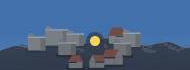
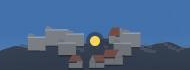
Fade the sun-side light with sin of the sun's offset from the cluster
Replaces the backlit band with a continuous light share k = min(1, sin d /
sin 30 deg) carried as --sun-k: lit faces, roof light, cast shadows and the
sun strip ease to the wall tone as the sun crosses behind the houses, the side
swaps where k is about 0, and the other face brightens.

diff --git a/src/ui/scene/marks/LightRig.tsx b/src/ui/scene/marks/LightRig.tsx
@@ -1,22 +1,29 @@
-import type { ReactNode } from 'react'
+import type { CSSProperties, ReactNode } from 'react'
 import type { BuildingProps, BuildingSpec } from './generic/buildingSpecs'
 import styles from './marks.module.css'
 
 export type LightSide = 'w' | 'e' | 'top'
 
-/**
- * Sun within this many px of a body's own x (10° of the 250° panorama at 375 px): we look at it against the light, so
- * its side faces take sin 10° × cos(altitude) < 0.17 of the beam, no more than skylight. Inside this spell it is drawn
- * backlit (both faces flat) and its lit side swaps there, instead of every house mirroring in one frame as the sun
- * crosses the cluster.
- */
-export const BACKLIT_PX = 15
+/** Panorama scale: 250° of bearing across 375 px. */
+const PX_PER_DEG = 1.5
+/** A side face takes its full drawn light from this angle between the sun and the body's bearing. */
+const FULL_LIGHT_DEG = 30
 
-/** Which side face takes the sun: west or east of the body, or null when backlit or no sun. */
-export function sunSideOf(sunX: number | null, x: number): 'w' | 'e' | null {
+/**
+ * Which side face takes the sun, and how much of its drawn light (`k`, 0–1, the CSS `--sun-k`). A side wall square to
+ * the line of sight gets the beam in proportion to sin δ, δ the sun's bearing off the body's: as the sun crosses
+ * behind the body the lit face dims to the wall tone, the side swaps at δ = 0 where nothing shows, and the other face
+ * brightens; no house ever mirrors in one frame.
+ */
+export function sunLightOf(sunX: number | null, x: number): { side: 'w' | 'e'; k: number } | null {
   if (sunX == null) return null
-  return sunX < x - BACKLIT_PX ? 'w' : sunX > x + BACKLIT_PX ? 'e' : null
+  const delta = (sunX - x) / PX_PER_DEG
+  const k = Math.min(1, Math.abs(Math.sin(delta * Math.PI / 180)) / Math.sin(FULL_LIGHT_DEG * Math.PI / 180))
+  return { side: delta <= 0 ? 'w' : 'e', k: Math.round(k * 100) / 100 }
 }
+
+/** The `--sun-k` style for a group whose lit faces, cast shadows and strips follow `sunLightOf`. */
+export const sunStyle = (k: number) => ({ '--sun-k': k }) as CSSProperties
 
 /**
  * The one named light (the sun) on a glyph, clipped to its own silhouette: a lit strip on the sun side (R4) and a
@@ -44,7 +51,7 @@ export function SunStrip({ id, w, h, litWidth = .35, side, children }:
         : <>
           <rect className={styles.lit} x={side === 'w' ? -half - 2 : half - w * litWidth} y={-h - 4}
             width={w * litWidth + 2} height={h + 4} />
-          <rect className={styles.shade} opacity={.55} x={side === 'w' ? half - shadeWidth : -half - 2} y={-h - 4}
+          <rect className={styles.shade} style={{ opacity: 'calc(.55 * var(--sun-k, 1))' }} x={side === 'w' ? half - shadeWidth : -half - 2} y={-h - 4}
             width={shadeWidth + 2} height={h + 4} />
         </>}
     </g>

diff --git a/src/ui/scene/marks/SettlementGlyph.tsx b/src/ui/scene/marks/SettlementGlyph.tsx
@@ -4,7 +4,7 @@ import { BlockHouse } from './blocks'
 import { CityMass } from './city/CityMass'
 import { CastShadow } from './generic/shadow'
 import { FlatRoof, Shed, TileHouse } from './houses'
-import { ContactShadow, SunStrip, sunSideOf } from './LightRig'
+import { ContactShadow, SunStrip, sunLightOf, sunStyle } from './LightRig'
 import styles from './marks.module.css'
 
 /** The place's own houses (ILLUSTRATION.md §4), drawn in px in the shared overlay svg. */
@@ -65,9 +65,10 @@ export function SettlementGlyph({ settlement, sunX, night, reach, afterRow, litS
     && detail !== undefined && Math.abs(house.x - detail.centerX) > detail.half)), [houses, detail])
   const ordered = houses.filter(inDetail).sort((a, b) => a.row - b.row || a.baseY - b.baseY)
   const lit = sunX != null && !night
-  /** One light direction for the whole cluster, so no seam runs through the village at the sun's x; backlit near it. */
+  /** One light direction for the whole cluster, so no seam runs through the village at the sun's x. */
   const xs = houses.map((house) => house.x)
-  const side = lit ? sunSideOf(sunX, (Math.min(...xs) + Math.max(...xs)) / 2) : null
+  const light = lit ? sunLightOf(sunX, (Math.min(...xs) + Math.max(...xs)) / 2) : null
+  const side = light?.side ?? null
   const sunWest = side === 'w'
   const grow = style === 'tile' ? TILE_GROW : 1
   const drawHouse = (house: House, i: number) => {
@@ -92,7 +93,7 @@ export function SettlementGlyph({ settlement, sunX, night, reach, afterRow, litS
     </g>
   }
   const drawn = ordered.map(drawHouse)
-  return <g className={side ? undefined : styles.flat}>
+  return <g className={side ? undefined : styles.flat} style={light ? sunStyle(light.k) : undefined}>
     {contours.map((d) => <path key={d} className={styles.contour} d={d} />)}
     {afterRow || detail ? [0, 1, 2].map(row => <Fragment key={row}>
       <CityMass houses={mass[row]} row={row} sunWest={side && sunWest} night={night} litShare={litShare} />

diff --git a/src/ui/scene/marks/sunSide.test.ts b/src/ui/scene/marks/sunSide.test.ts
@@ -1,17 +1,19 @@
 import { describe, expect, it } from 'vitest'
-import { BACKLIT_PX, sunSideOf } from './LightRig'
+import { sunLightOf } from './LightRig'
 
-describe('sunSideOf', () => {
-  it('lights the face toward the sun, and none while the sun stands behind the body', () => {
-    expect(sunSideOf(100, 200)).toBe('w')
-    expect(sunSideOf(300, 200)).toBe('e')
-    expect(sunSideOf(200 - BACKLIT_PX + 1, 200)).toBeNull()
-    expect(sunSideOf(200 + BACKLIT_PX - 1, 200)).toBeNull()
-    expect(sunSideOf(null, 200)).toBeNull()
+describe('sunLightOf', () => {
+  it('lights the face toward the sun, fully from 30° off the body', () => {
+    expect(sunLightOf(100, 200)).toEqual({ side: 'w', k: 1 })
+    expect(sunLightOf(300, 200)).toEqual({ side: 'e', k: 1 })
+    expect(sunLightOf(null, 200)).toBeNull()
   })
 
-  it('never swaps sides between two adjacent sun positions: it passes through the backlit spell', () => {
-    const sides = Array.from({ length: 81 }, (_, i) => sunSideOf(160 + i, 200))
-    sides.slice(1).forEach((side, i) => expect(side && sides[i] && side !== sides[i]).toBeFalsy())
+  it('dims as sin δ toward the crossing, so the side swaps only where no light shows', () => {
+    expect(sunLightOf(200 - 1.5 * 10, 200)!.k).toBeCloseTo(2 * Math.sin(Math.PI / 18), 2)
+    const ks = Array.from({ length: 121 }, (_, i) => sunLightOf(140 + i, 200)!)
+    ks.slice(1).forEach((light, i) => {
+      expect(Math.abs(light.k - ks[i].k)).toBeLessThan(.035)
+      if (light.side !== ks[i].side) expect(Math.max(light.k, ks[i].k)).toBeLessThan(.03)
+    })
   })
 })

diff --git a/src/ui/scene/marks/HillMarks.tsx b/src/ui/scene/marks/HillMarks.tsx
@@ -12,7 +12,7 @@ import { Field } from './generic/fields'
 import { isField, isHillMark, planeOf, specOf } from './hillPlane'
 import { fieldDepthOf } from './markBox'
 import { PLAIN_LABEL_FONT, type PlainLabel } from './plainLabels'
-import { sunSideOf } from './LightRig'
+import { sunLightOf, sunStyle } from './LightRig'
 import { MarkBuilding, type BuildingContext } from './MarkBuilding'
 import { SettlementGlyph } from './SettlementGlyph'
 import { lifeStyle, useMarkMotion } from './useMarkMotion'
@@ -66,9 +66,10 @@ export function HillMarks({ marks, settlement, cityTowers, citySkyline, neighbou
   const night = context.night && !far
   const massAt = (row: number) => masses.filter(mass => mass.row === row && mass.houses.length).map(mass => {
     const x = middle(mass.houses.map(house => house.x))
-    const side = context.shaded?.(x) ? null : sunSideOf(context.sunX, x)
-    const sunWest = side && side === 'w'
-    return <CityMass key={mass.roof} {...mass} night={night} litShare={context.life.litShare} sunWest={sunWest} />
+    const light = context.shaded?.(x) ? null : sunLightOf(context.sunX, x)
+    return <g key={mass.roof} style={light ? sunStyle(light.k) : undefined}>
+      <CityMass {...mass} night={night} litShare={context.life.litShare} sunWest={light && light.side === 'w'} />
+    </g>
   })
   return <svg className={`${styles.px} ${night ? styles.night : ''}`}
     viewBox={`0 0 ${width} 128`} style={lifeStyle(context.life)} data-hidden={motion.hidden || undefined} aria-hidden="true">

diff --git a/src/ui/scene/marks/marks.module.css b/src/ui/scene/marks/marks.module.css
@@ -53,14 +53,15 @@
 .px * { transition: fill var(--d6) var(--ease-in-out); }
 .solid, .skirt { fill: var(--ridge-near); }
 .wall { fill: var(--mark-wall); }
-.lit { fill: var(--mark-lit); }
+/* `--sun-k` (LightRig `sunLightOf`, default 1): how much of its drawn light a sun-side face takes; 0 = wall tone. */
+.lit { fill: color-mix(in srgb, var(--mark-lit) calc(var(--sun-k, 1) * 100%), var(--mark-wall)); }
 .roof { fill: var(--mark-roof); }
-.roofLit { fill: color-mix(in srgb, #C8664A 72%, var(--ridge-near)); }
+.roofLit { fill: color-mix(in srgb, color-mix(in srgb, #C8664A 72%, var(--ridge-near)) calc(var(--sun-k, 1) * 100%), var(--mark-roof)); }
 /* Sheet-metal shed roofs: one grey tone, galvanised and weathered, leaning toward the ridge. */
 .metal { fill: color-mix(in srgb, #A4ABAE 60%, var(--ridge-near)); }
-.cast { fill: var(--mark-shade); opacity: .8; }
+.cast { fill: var(--mark-shade); opacity: calc(.8 * var(--sun-k, 1)); }
 /* House faces: the side face takes the sun; the parapet / roof edge always catches the sky. */
-.side { fill: var(--mark-lit); }
+.side { fill: color-mix(in srgb, var(--mark-lit) calc(var(--sun-k, 1) * 100%), var(--mark-wall)); }
 .top { fill: var(--mark-lit); }
 .pane { fill: color-mix(in srgb, #000 42%, var(--mark-wall)); }
 .tank { fill: color-mix(in srgb, #000 40%, var(--mark-wall)); }

diff --git a/TASKS.md b/TASKS.md
@@ -690,8 +690,9 @@ Plan by Fable (`docs/design/PANORAMA-SKYLINE-PLAN.md`); code by Codex gpt-6.2-so
       `ui/scene/marks/city/{Skyline.tsx,skylinePaths.ts,skylineLights.ts}`. Cross-section mode unchanged.
 - [x] Stills: `docs/design/qa/skyline/{before,after}-*.png` (Tel Aviv, Petah Tikva, Haifa, Jerusalem, Modi'in, Yagur; day+night).
 - [x] Bug "houses rotate" (כרמי צור, late morning): when the sun crossed the cluster's x every house swapped its lit face
-      in one frame. Now `sunSideOf` (LightRig.tsx) gives a backlit spell of ±15 px (~10°) where both faces go flat;
-      used by SettlementGlyph and CityMass. Stills `docs/design/qa/sun-side/`.
+      in one frame. Now `sunLightOf` (LightRig.tsx) gives the side and a light share k = min(1, sin δ / sin 30°)
+      (CSS `--sun-k`): the lit face, cast shadow and strip dim to the wall tone as the sun crosses behind the cluster,
+      swap side at k ≈ 0, and brighten on the other side. SettlementGlyph + CityMass. Stills `docs/design/qa/sun-side/`.
 - [ ] Tuning: Tel Aviv day towers are tall needles near the scene top; elevation label overlaps the skyline in places.
 - [ ] MarkBuilding still uses its own ±40 px 'top' band (landmarks); consider `sunSideOf` there too.
 - [ ] Console shows some 403/429 resource errors in dev (DEM / rate limits); not investigated.
